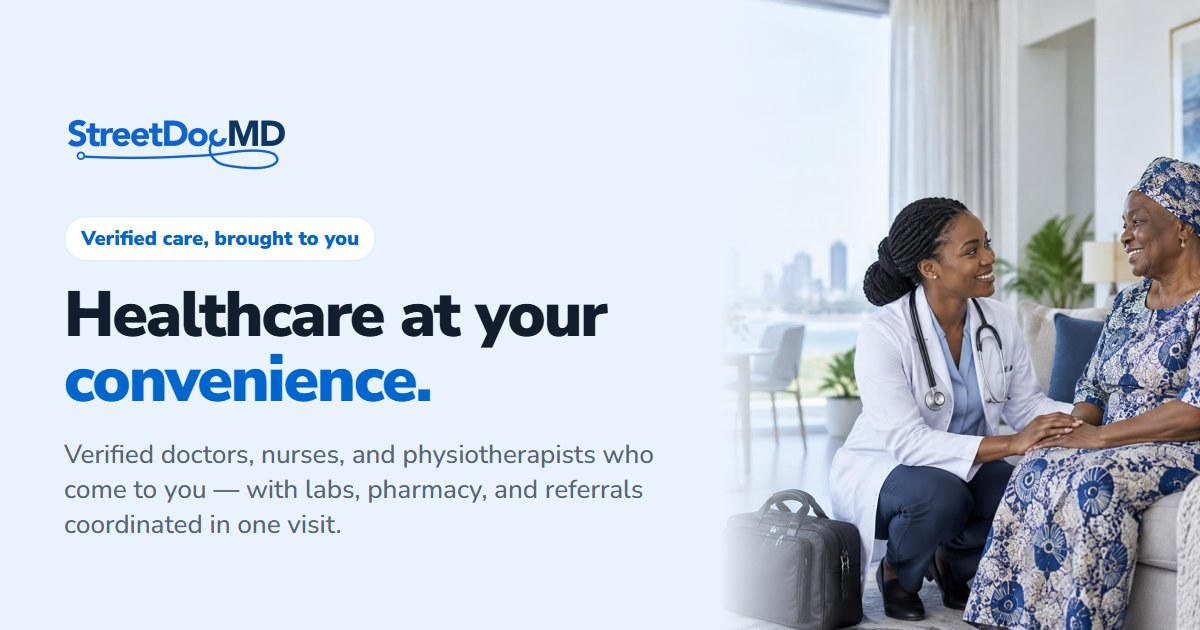
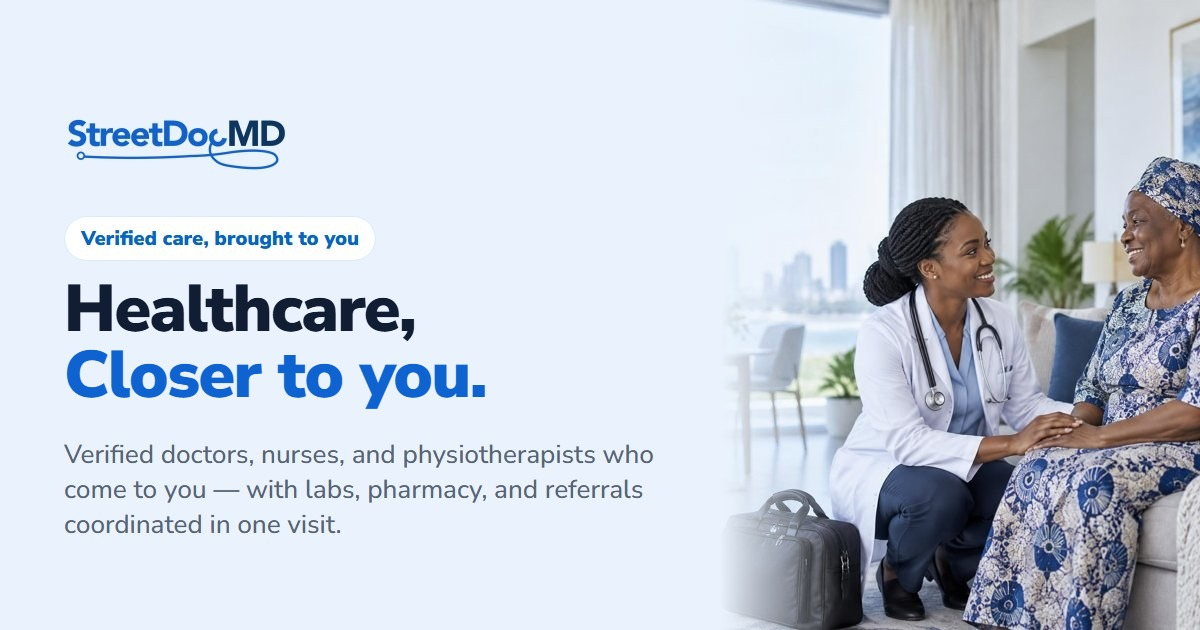
launch splash on every fresh open, across web and mobile; new tagline
Web shows it once per session on any page for about a second. Mobile
holds the native splash until the session is known. Tagline is now
"Healthcare, Closer to you" across the app, landing page and share image.

Changed region(s): [[0.0308, 0.4524, 0.5242, 0.6635]]

diff --git a/apps/patient-web/src/components/LaunchSplash.tsx b/apps/patient-web/src/components/LaunchSplash.tsx
@@ -1,0 +1,30 @@
+import Image from "next/image";
+
+// The web version of a mobile app's launch screen: every fresh open of the app,
+// signed in or not and on any page, shows the logo for about a second. A fresh
+// open is a new tab or browser session; moving around or refreshing doesn't
+// count, and neither does coming back to a tab that's still open.
+const SPLASH_MS = 1000;
+const script = `(function(){var d=document.documentElement;
+function done(){d.classList.add('launched')}
+try{if(sessionStorage.getItem('sdm_launched'))return done();sessionStorage.setItem('sdm_launched','1')}catch(e){}
+setTimeout(done,${SPLASH_MS});
+})();`;
+
+// Runs before the page paints, so a page that skips the splash never flashes it.
+export function LaunchSplashScript() {
+  return <script dangerouslySetInnerHTML={{ __html: script }} />;
+}
+
+export default function LaunchSplash() {
+  return (
+    <div id="launch-splash" aria-hidden className="fixed inset-0 z-[600] grid place-items-center overflow-hidden bg-surface px-6">
+      <noscript><style>{"#launch-splash{display:none}"}</style></noscript>
+      <div className="w-[280px] max-w-full animate-reveal text-center motion-reduce:animate-none">
+        <Image src="/logo.png" alt="" width={280} height={112} loading="eager" className="h-auto w-full dark:hidden" />
+        <Image src="/logo-white.png" alt="" width={280} height={112} loading="eager" className="hidden h-auto w-full dark:block" />
+        <p className="-mt-1 text-ds-control text-muted">Healthcare, Closer to you</p>
+      </div>
+    </div>
+  );
+}

diff --git a/apps/provider/app/_layout.tsx b/apps/provider/app/_layout.tsx
@@ -1,8 +1,12 @@
 import { Slot, useRouter, useSegments } from "expo-router";
+import * as SplashScreen from "expo-splash-screen";
 import { useEffect, useState } from "react";
 import { Session } from "@supabase/supabase-js";
 import { supabase } from "../lib/supabase";
 import { registerForPush } from "../lib/push";
+
+// The launch screen stays up until we know who's signed in, so the wrong screen never flashes
+SplashScreen.preventAutoHideAsync().catch(() => {});
 
 export default function RootLayout() {
   const [session, setSession] = useState<Session | null>(null);
@@ -15,8 +19,7 @@ export default function RootLayout() {
     supabase.auth.getSession().then(async ({ data: { session } }) => {
       setSession(session);
       if (session) await checkVerification(session.user.id);
-      setLoading(false);
-    });
+    }).finally(() => setLoading(false));
     const { data: { subscription } } = supabase.auth.onAuthStateChange(async (_e, s) => {
       setSession(s);
       if (s) await checkVerification(s.user.id);
@@ -24,6 +27,8 @@ export default function RootLayout() {
     });
     return () => subscription.unsubscribe();
   }, []);
+
+  useEffect(() => { if (!loading) SplashScreen.hideAsync().catch(() => {}); }, [loading]);
 
   // Register this device for push once signed in
   const userId = session?.user.id;

diff --git a/apps/patient-web/src/components/welcome/WelcomeFlow.tsx b/apps/patient-web/src/components/welcome/WelcomeFlow.tsx
@@ -2,13 +2,11 @@
 
 import { useEffect, useState } from "react";
 import { useRouter } from "next/navigation";
-import Splash from "./Splash";
 import Onboarding from "./Onboarding";
 
-// Signed-out entry at "/": splash, then three onboarding slides, then sign up
-// (or sign in). Returning visitors skip both and go straight to sign up, as before.
+// Signed-out entry at "/": three onboarding slides, then sign up (or sign in).
+// Returning visitors skip them and go straight to sign up, as before.
 const SEEN_KEY = "sdm_welcome_seen";
-const SPLASH_MS = 2600;
 
 function hasSeenWelcome() {
   try {
@@ -28,7 +26,7 @@ function markWelcomeSeen() {
 
 export default function WelcomeFlow() {
   const router = useRouter();
-  const [stage, setStage] = useState<"splash" | "onboarding">("splash");
+  const [firstVisit, setFirstVisit] = useState(false);
 
   useEffect(() => {
     if (hasSeenWelcome()) {
@@ -36,11 +34,10 @@ export default function WelcomeFlow() {
       return;
     }
     router.prefetch("/register");
-    const t = setTimeout(() => setStage("onboarding"), SPLASH_MS);
-    return () => clearTimeout(t);
+    setFirstVisit(true);
   }, [router]);
 
-  if (stage === "splash") return <Splash />;
+  if (!firstVisit) return null;
   return (
     <Onboarding
       onFinish={(href) => {

diff --git a/apps/patient/app/_layout.tsx b/apps/patient/app/_layout.tsx
@@ -1,9 +1,13 @@
 import { Slot, useRouter, useSegments } from "expo-router";
+import * as SplashScreen from "expo-splash-screen";
 import { useEffect, useState } from "react";
 import { Session } from "@supabase/supabase-js";
 import { supabase } from "../lib/supabase";
 import { ensurePatientProfile, onProfileChanged } from "../lib/profile";
 import { registerForPush } from "../lib/push";
+
+// The launch screen stays up until we know who's signed in, so the wrong screen never flashes
+SplashScreen.preventAutoHideAsync().catch(() => {});
 
 type ProfileState = "unknown" | "present" | "missing";
 
@@ -19,8 +23,7 @@ export default function RootLayout() {
   useEffect(() => {
     supabase.auth.getSession().then(({ data: { session } }) => {
       setSession(session);
-      setLoading(false);
-    });
+    }).finally(() => setLoading(false));
 
     const { data: { subscription } } = supabase.auth.onAuthStateChange((_event, session) => {
       setSession(session);
@@ -29,6 +32,8 @@ export default function RootLayout() {
     const off = onProfileChanged(() => setRecheck(n => n + 1));
     return () => { subscription.unsubscribe(); off(); };
   }, []);
+
+  useEffect(() => { if (!loading) SplashScreen.hideAsync().catch(() => {}); }, [loading]);
 
   const userId = session?.user.id;
 

diff --git a/apps/landing-page/app/layout.tsx b/apps/landing-page/app/layout.tsx
@@ -15,11 +15,11 @@ const nunito = Nunito_Sans({
 
 export const metadata: Metadata = {
   metadataBase: new URL("https://streetdocmd.com"),
-  title: "StreetdocMD — Healthcare at your convenience",
+  title: "StreetdocMD — Healthcare, Closer to you",
   description:
     "Licensed doctors, nurses and physiotherapists who come to you, with labs, pharmacy delivery and hospital referrals coordinated in one visit.",
   openGraph: {
-    title: "StreetdocMD — Healthcare at your convenience",
+    title: "StreetdocMD — Healthcare, Closer to you",
     description: "Verified doctors, nurses, and physiotherapists who come to you.",
     url: "https://streetdocmd.com",
     siteName: "StreetdocMD",
@@ -29,7 +29,7 @@ export const metadata: Metadata = {
   // og:image comes from app/opengraph-image.jpg; X falls back to it for the large card
   twitter: {
     card: "summary_large_image",
-    title: "StreetdocMD — Healthcare at your convenience",
+    title: "StreetdocMD — Healthcare, Closer to you",
     description: "Verified doctors, nurses, and physiotherapists who come to you.",
   },
 };

diff --git a/apps/admin/src/design/tailwind-preset.ts b/apps/admin/src/design/tailwind-preset.ts
@@ -98,14 +98,12 @@ const preset: Partial<Config> = {
         ]),
       ),
       fontFamily: { sans: fontStack },
-      // The one brand motion: the stethoscope cable on the splash screen
+      // The one brand motion: the logo fading in on the splash screen
       keyframes: {
-        swing: { "0%, 100%": { transform: "rotate(-7deg)" }, "50%": { transform: "rotate(7deg)" } },
-        load: { from: { transform: "translateX(-100%)" }, to: { transform: "translateX(260%)" } },
+        reveal: { from: { opacity: "0", transform: "translateY(8px)" }, to: { opacity: "1", transform: "none" } },
       },
       animation: {
-        swing: "swing 2.6s ease-in-out infinite",
-        load: "load 2.2s ease-in-out forwards",
+        reveal: "reveal 0.4s ease-out both",
       },
     },
   },

diff --git a/apps/patient-web/src/design/tailwind-preset.ts b/apps/patient-web/src/design/tailwind-preset.ts
@@ -98,14 +98,12 @@ const preset: Partial<Config> = {
         ]),
       ),
       fontFamily: { sans: fontStack },
-      // The one brand motion: the stethoscope cable on the splash screen
+      // The one brand motion: the logo fading in on the splash screen
       keyframes: {
-        swing: { "0%, 100%": { transform: "rotate(-7deg)" }, "50%": { transform: "rotate(7deg)" } },
-        load: { from: { transform: "translateX(-100%)" }, to: { transform: "translateX(260%)" } },
+        reveal: { from: { opacity: "0", transform: "translateY(8px)" }, to: { opacity: "1", transform: "none" } },
       },
       animation: {
-        swing: "swing 2.6s ease-in-out infinite",
-        load: "load 2.2s ease-in-out forwards",
+        reveal: "reveal 0.4s ease-out both",
       },
     },
   },

diff --git a/apps/provider-web/src/design/tailwind-preset.ts b/apps/provider-web/src/design/tailwind-preset.ts
@@ -98,14 +98,12 @@ const preset: Partial<Config> = {
         ]),
       ),
       fontFamily: { sans: fontStack },
-      // The one brand motion: the stethoscope cable on the splash screen
+      // The one brand motion: the logo fading in on the splash screen
       keyframes: {
-        swing: { "0%, 100%": { transform: "rotate(-7deg)" }, "50%": { transform: "rotate(7deg)" } },
-        load: { from: { transform: "translateX(-100%)" }, to: { transform: "translateX(260%)" } },
+        reveal: { from: { opacity: "0", transform: "translateY(8px)" }, to: { opacity: "1", transform: "none" } },
       },
       animation: {
-        swing: "swing 2.6s ease-in-out infinite",
-        load: "load 2.2s ease-in-out forwards",
+        reveal: "reveal 0.4s ease-out both",
       },
     },
   },

diff --git a/packages/design/tailwind-preset.ts b/packages/design/tailwind-preset.ts
@@ -97,14 +97,12 @@ const preset: Partial<Config> = {
         ]),
       ),
       fontFamily: { sans: fontStack },
-      // The one brand motion: the stethoscope cable on the splash screen
+      // The one brand motion: the logo fading in on the splash screen
       keyframes: {
-        swing: { "0%, 100%": { transform: "rotate(-7deg)" }, "50%": { transform: "rotate(7deg)" } },
-        load: { from: { transform: "translateX(-100%)" }, to: { transform: "translateX(260%)" } },
+        reveal: { from: { opacity: "0", transform: "translateY(8px)" }, to: { opacity: "1", transform: "none" } },
       },
       animation: {
-        swing: "swing 2.6s ease-in-out infinite",
-        load: "load 2.2s ease-in-out forwards",
+        reveal: "reveal 0.4s ease-out both",
       },
     },
   },

diff --git a/apps/patient-web/src/app/layout.tsx b/apps/patient-web/src/app/layout.tsx
@@ -2,6 +2,7 @@ import type { Metadata, Viewport } from "next";
 import { Nunito_Sans } from "next/font/google";
 import "./globals.css";
 import ThemeScript from "@/components/theme/ThemeScript";
+import LaunchSplash, { LaunchSplashScript } from "@/components/LaunchSplash";
 import { DialogProvider } from "@/components/ds";
 import WhatsAppConcierge from "@/components/WhatsAppConcierge";
 
@@ -24,8 +25,10 @@ export default function RootLayout({ children }: { children: React.ReactNode }) 
     <html lang="en" className={nunito.variable} suppressHydrationWarning>
       <head>
         <ThemeScript />
+        <LaunchSplashScript />
       </head>
       <body>
+        <LaunchSplash />
         <DialogProvider>{children}</DialogProvider>
         <WhatsAppConcierge />
       </body>

diff --git a/apps/landing-page/components/Footer.tsx b/apps/landing-page/components/Footer.tsx
@@ -16,7 +16,7 @@ export default function Footer() {
         <div className="footer-top">
           <div className="footer-brand" data-reveal>
             <img src="/images/logo-white.png" alt="StreetdocMD" width={464} height={186} />
-            <p>Healthcare at your convenience</p>
+            <p>Healthcare, Closer to you</p>
           </div>
 
           <div className="footer-links" data-reveal style={delay(120)}>

diff --git a/apps/patient-web/src/app/globals.css b/apps/patient-web/src/app/globals.css
@@ -41,3 +41,13 @@
     @apply inline-flex items-center gap-1.5 px-2.5 py-[5px] rounded-pill text-ds-xs font-bold leading-none whitespace-nowrap;
   }
 }
+
+/* See components/LaunchSplash.tsx */
+#launch-splash {
+  transition: opacity 0.25s ease, visibility 0.25s;
+}
+.launched #launch-splash {
+  opacity: 0;
+  visibility: hidden;
+  pointer-events: none;
+}
